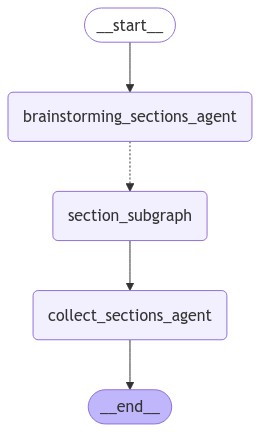
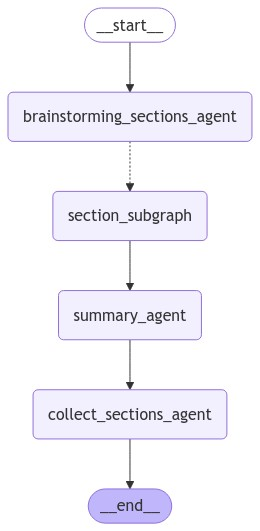
Add summarization agent for Intro

diff --git a/enums/prompts.py b/enums/prompts.py
@@ -4,7 +4,9 @@ from enum import Enum
 class PromptsEnums(Enum):
     BRAINSTORMING_PROMPT = """
 You are an expert document writer. You have been asked to write a '{user_input}'.
-Generate a list of sections that you would include in the report, if you have the following data.
+Complete the list of sections that you would include in the report, if the first section title is '1. Executive Summary'
+
+You have the following data available:
 
 Sample data from {input_data_file_path}:
 {df_head}
@@ -12,7 +14,11 @@ Sample data from {input_data_file_path}:
 Available columns in the data:
 {df_columns}
 
-Return a numbered list of sections.
+Instructions:
+- Please return a numbered list of sections starting from 2.
+- All the titles should be in the format '2. Section Title'.
+- Only include main body sections, no conclusion , appendix, references, suggestions, acknowledgments or any other similar sections.
+- The list should be at least 3 sections long and no longer than 7 sections.
 """
 
     GRAPH_OR_NO_GRAPH_PROMPT = """
@@ -41,8 +47,8 @@ Instructions:
 - Reply directly with a markdown-formatted text-only section for the section titled '{section_title}'.
 - The paragraph should be at least 3 sentences long and no longer than 5 sentences.
 - Your response should be a paragraph of markdown-formatted text that is ready to be inserted into a markdown file for the report.
-- The markdown must start with a header of level 2 (##) with the section title.
-- Always start your response with triple quotes and end it with triple quotes to ensure that the markdown is formatted correctly.
+- The markdown must start with a header of level 1 (#) with the section title.
+- Always start your response with triple quotes (```) and end it with triple quotes to ensure that the markdown is formatted correctly.
 """
 
     PLOTLY_CODE_PROMPT = """
@@ -63,27 +69,51 @@ Update the python code below to generate the plot:
 ```python
 # TODO 
 # Import required dependencies.
-# Create the Output Directory, Ensure that the plot image output directory '{output_plot_path}' exists.
+# Create the Output Directory, Ensure that the plot image output directory '{output_plot_path}' exists, use the exact given path.
 # Read the input data from '{input_file_path}' into a pandas DataFrame.
-# Code to generate a clear and informative plot.
-# Save the plot image to '{output_plot_path}'
+# Code to generate a clear and informative plot with plotly-express using the data. 
+# Don't forget to include a title, labels, and any other necessary configurations for the plot.
+# Make sure to use `fig.update_traces(textposition='none')` after creating the plot to remove numbers on the plot.
+# Save aggregate data used to generate the plot to '{used_data_path}', use the exact given path.
+# Save the plot image to '{output_plot_path}', use the exact given path.
 ```
 
-Output 100% syntatically and logically correct Python code ONLY.
+Instructions:
+- Output 100% syntatically and logically correct Python code ONLY.
+- Ensure that the code is ready to be executed.
+- Use 'os' library to create directories, save files and join paths.
 """
 
     CHART_SECTION_PROMPT = """
 You are an expert data reports writer, proficient in writing sections with charts for a report.
 Your task is to generate a '{section_title}' section for a '{user_input}' report.
+Given the data and the chart attached below, please write the '{section_title}' section.
 
 The report includes the following sections:
 {sections_titles}
 
-Given the chart attached below, please write the '{section_title}' section.
+The data used to generate the chart is:
+{used_data}
+
 
 Instructions:
 - Please reply directly with a markdown-formatted text of the section that is ready to be inserted into a markdown file for the report.
 - Please place the chart image at a suitable location in the section markdown text given that its path is: '{plot_image_path}'
-- The markdown must start with a header of level 2 (##) with the section title.
-- Always start your response with triple quotes and end it with triple quotes to ensure that the markdown is formatted correctly.
+- The markdown must start with a header of level 1 (#) with the section title.
+- Always start your response with triple quotes (```) and end it with triple quotes to ensure that the markdown is formatted correctly.
+"""
+
+    EXECUTIVE_SUMMARY_PROMPT = """
+You are an expert data reports writer, proficient in writing executive summaries for a report.
+Your task is to generate an '1. Executive Summary' section for a '{user_input}' report.
+
+The report includes the following sections:
+{report_content}
+
+Instructions:
+- Please Reply directly with a markdown-formatted text of the executive summary that is ready to be inserted into a markdown file for the report.
+- The markdown must start with '# 1. Executive Summary'.
+- The section should highlight the key points of the report.
+- Always start your response with triple quotes (```) and end it with triple quotes to ensure that the markdown is formatted correctly.
+
 """

diff --git a/graph.py b/graph.py
@@ -11,6 +11,7 @@ from agents import (
     decide_section_agent,
     generate_chart_section_agent,
     generate_text_only_section_agent,
+    summary_agent,
 )
 from models.states import OverallState, SectionState, SectionStateOutput
 
@@ -30,15 +31,16 @@ section_builder.add_edge("generate_chart_section_agent", END)
 section_builder.add_edge("generate_text_only_section_agent", END)
 
 section_graph = section_builder.compile()
-section_graph_image = section_graph.get_graph().draw_mermaid_png()
-with open("section_graph.png", "wb") as f:
-    f.write(section_graph_image)
+# section_graph_image = section_graph.get_graph().draw_mermaid_png()
+# with open("section_graph.png", "wb") as f:
+#     f.write(section_graph_image)
 
 
 builder = StateGraph(state_schema=OverallState)
 
 builder.add_node("brainstorming_sections_agent", brainstorming_agent)
 builder.add_node("section_subgraph", section_graph)
+builder.add_node("summary_agent", summary_agent)
 builder.add_node("collect_sections_agent", collect_sections_agent)
 
 
@@ -48,30 +50,22 @@ builder.add_conditional_edges(
     continue_to_seciton_generation,
     ["section_subgraph"],
 )
-builder.add_edge("section_subgraph", "collect_sections_agent")
+builder.add_edge("section_subgraph", "summary_agent")
+builder.add_edge("summary_agent", "collect_sections_agent")
 builder.add_edge("collect_sections_agent", END)
 
 
 graph = builder.compile()
-graph_image = graph.get_graph().draw_mermaid_png()
-with open("graph.png", "wb") as f:
-    f.write(graph_image)
-
-
-# graph.invoke(
-#     OverallState(
-#         input_data_file_path="input-samples/Sale Data.xlsx",
-#         user_input="A sales report",
-#         output_pdf_path="output.pdf",
-#     )
-# )
+# graph_image = graph.get_graph().draw_mermaid_png()
+# with open("graph.png", "wb") as f:
+#     f.write(graph_image)
 
 
 graph_time = str(time.strftime("%Y-%m-%d-%H-%M-%S"))
 debug_folder = os.path.join("output", "debug", graph_time)
 os.makedirs(debug_folder, exist_ok=True)
 
-output_folder = os.path.join("output", graph_time)
+output_folder = os.path.join("output/pdf", graph_time)
 os.makedirs(output_folder, exist_ok=True)
 output_pdf_path = os.path.join(output_folder, "output.pdf")
 
@@ -79,17 +73,14 @@ input_data_file_path = "input-samples/Sale Data.xlsx"
 user_input = "A sales report"
 
 start = time.time()
-for s in graph.stream(
+graph.invoke(
     OverallState(
         input_data_file_path=input_data_file_path,
         user_input=user_input,
         output_pdf_path=output_pdf_path,
         debug_folder=debug_folder,
-    ),
-    stream_mode="debug",
-):
-    # print(s)
-    pass
-
+    )
+)
 end = time.time()
-print(f"Time taken: {end-start} seconds")
+
+print(f"Time taken: {end-start} seconds", flush=True)

diff --git a/agents/generate_section_agent.py b/agents/generate_section_agent.py
@@ -68,7 +68,7 @@ def generate_text_only_section_agent(state: SectionState):
 
     chatgpt = get_chatgpt()
     reply = chatgpt.invoke(input=prompt)
-    section_content = reply.content
+    section_content = reply.content.strip("```")
 
     return {
         "section_content": section_content,
@@ -80,6 +80,7 @@ def generate_chart_section_agent(state: SectionState):
     plot_image_path = os.path.join(
         state.debug_folder, f"{state.section_title} chart.png"
     )
+    used_data_path = os.path.join(state.debug_folder, f"{state.section_title} chart data.csv")
 
     df = read_structured_data(state.input_data_file_path)
     plotly_code_prompt = PromptsEnums.PLOTLY_CODE_PROMPT.value.format(
@@ -88,6 +89,7 @@ def generate_chart_section_agent(state: SectionState):
         df_columns=df.columns.to_list(),
         input_file_path=state.input_data_file_path,
         output_plot_path=plot_image_path,
+        used_data_path=used_data_path,
     )
 
     chatgpt = get_chatgpt()
@@ -106,12 +108,19 @@ def generate_chart_section_agent(state: SectionState):
         raise Exception(
             "Plot image not saved in the expected location: " + plot_image_path
         )
+    
+    if not os.path.exists(used_data_path):
+        raise Exception(
+            "Used data not saved in the expected location: " + used_data_path
+        )
 
+    used_data = read_structured_data(used_data_path)
     section_content_prompt = PromptsEnums.CHART_SECTION_PROMPT.value.format(
         section_title=state.section_title,
         sections_titles=state.sections_titles,
         plot_image_path=plot_image_path,
         user_input=state.user_input,
+        used_data=used_data,
     )
     encoded_chart_image = load_image(plot_image_path)
 
@@ -127,12 +136,14 @@ def generate_chart_section_agent(state: SectionState):
 
     reply = chatgpt.invoke([prompt])
 
-    section_content = reply.content
+    section_content = reply.content.strip("```")
 
     image_path = f"images/{state.section_title}.png"
     return {
         "section_image": image_path,
         "section_content": section_content,
+        "section_used_data_path": used_data_path,
         "sections_content": [section_content],
         "sections_images": [image_path],
+        "sections_used_data_paths": [used_data_path],
     }

diff --git a/agents/collect_sections_agent.py b/agents/collect_sections_agent.py
@@ -11,12 +11,10 @@ app_settings = get_settings()
 
 
 def collect_sections_agent(state: OverallState):
-    markdown = ""
-    for section_content, section_title in zip(
-        state.sections_content, state.sections_titles
-    ):
-        markdown += section_content.strip("```") + "\n\n"
-
+    markdown = state.exec_summary + "\n\n"
+    body = "\n\n".join(state.sections_content)
+    markdown += body
+    
     if app_settings.OUTPUT_DEBUG:
         with open(os.path.join(state.debug_folder, "all sections.md"), "w") as file:
             file.write(markdown)
@@ -36,6 +34,7 @@ def collect_sections_agent(state: OverallState):
         output_html_path = os.path.join(state.debug_folder, "all_sections.html")
         with open(output_html_path, "w") as file:
             file.write(formatted_template)
+
 
     pdfkit.from_string(
         formatted_template, state.output_pdf_path, options=app_settings.OPTIONS

diff --git a/agents/summarization_agent.py b/agents/summarization_agent.py
@@ -1,0 +1,21 @@
+from enums.prompts import PromptsEnums
+from models.states import OverallState
+from helpers import get_chatgpt
+
+def summary_agent(state:OverallState):
+    prompt = PromptsEnums.EXECUTIVE_SUMMARY_PROMPT.value.format(
+        user_input = state.user_input,
+        report_content = "\n\n".join(state.sections_content)
+    )
+    
+    chatgpt = get_chatgpt()
+    output = chatgpt.invoke(input=prompt)
+    summary = output.content.strip('```')
+    
+    return {
+        'exec_summary': summary
+    }
+    
+    
+    
+    

diff --git a/agents/brainstorming_agent.py b/agents/brainstorming_agent.py
@@ -22,5 +22,12 @@ def brainstorming_agent(state: OverallState):
     )
 
     parsed: GeneratedSections = output["parsed"]
-    state.sections_titles = parsed.sections_titles
-    return state
+    section_titles = parsed.sections_titles
+    
+    if section_titles[0].startswith("1.") and section_titles[1].startswith("2."):
+        print("Removed the first section title", section_titles[0])
+        section_titles = section_titles[1:]
+    
+    return {
+        "sections_titles": section_titles,        
+    }

diff --git a/helpers/utils.py b/helpers/utils.py
@@ -56,8 +56,8 @@ def absolute_path_html_resources(html: str) -> str:
 
 
 def read_structured_data(file_path: str) -> pd.DataFrame:
-    if not file_path.endswith(".xlsx" or ".csv"):
-        raise ValueError("File is not a structured data file (xlsx or csv)")
+    if not file_path.split(".")[-1] in ["xlsx", "csv"]:
+        raise ValueError(f"File {file_path} is not a structured data file (xlsx or csv)")
 
     if file_path.endswith(".xlsx"):
         return pd.read_excel(file_path)

diff --git a/models/states.py b/models/states.py
@@ -8,6 +8,7 @@ from pydantic import BaseModel
 class OverallState(SimpleNamespace):
     input_data_file_path: str
     user_input: str
+    exec_summary: str = None
     sections_titles: Annotated[list[str], operator.add]
     sections_content: Annotated[list[str], operator.add]
     sections_chart_types: Annotated[list[str], operator.add]

diff --git a/agents/__init__.py b/agents/__init__.py
@@ -7,3 +7,4 @@ from .generate_section_agent import (
     generate_chart_section_agent,
     generate_text_only_section_agent,
 )
+from .summarization_agent import summary_agent
